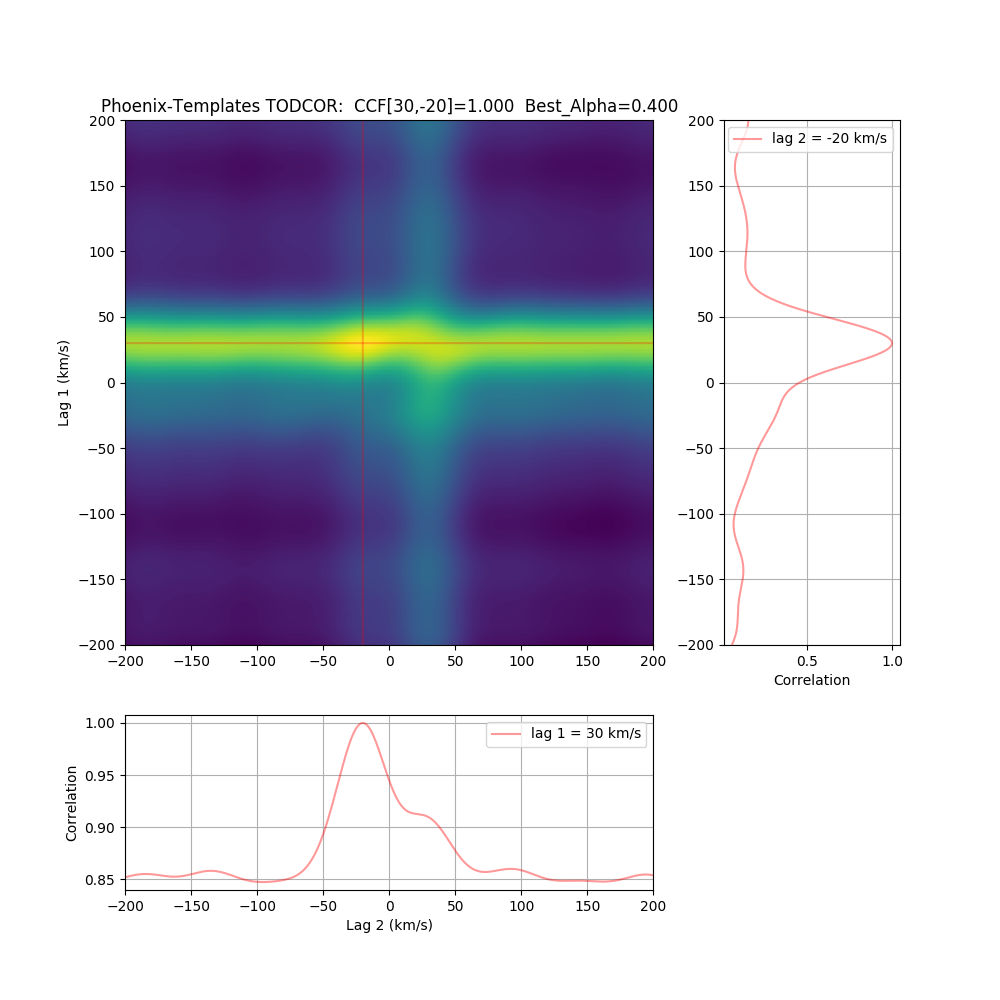
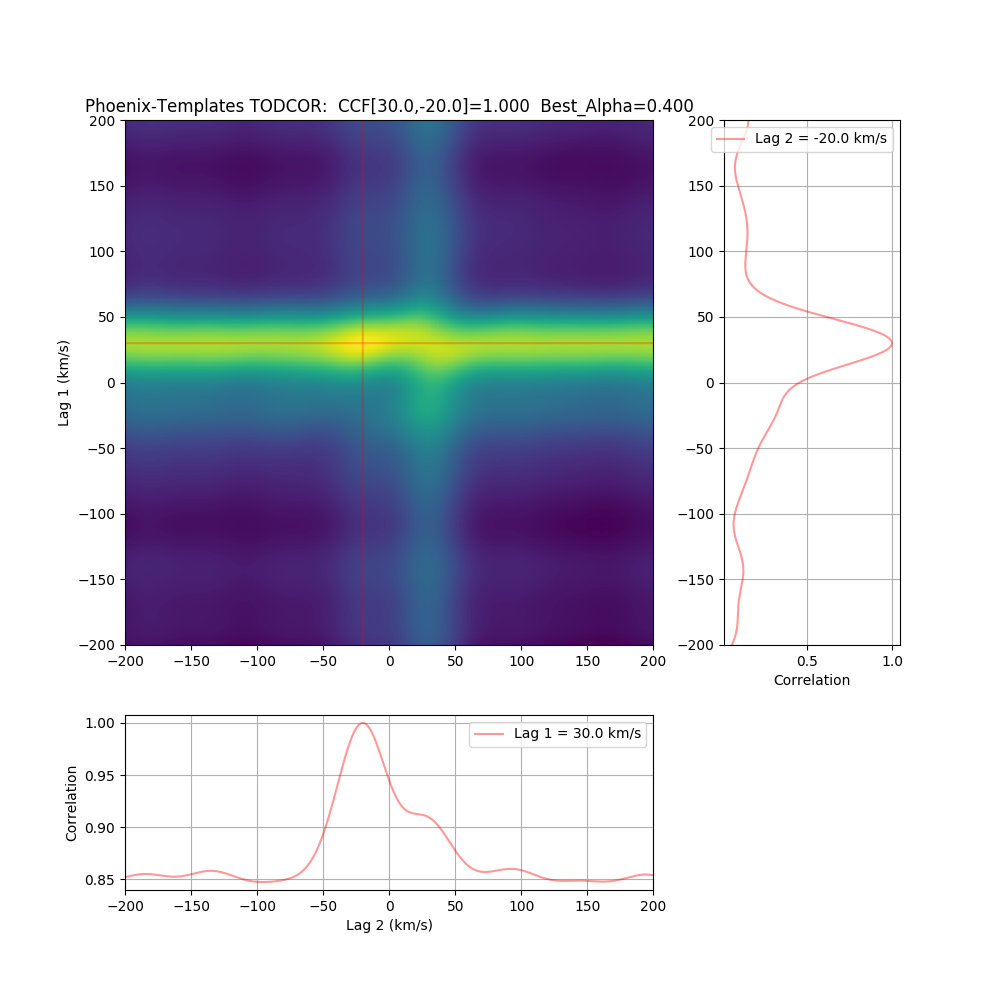
example.py now supports templates of any resolution: The templates resolution, dRV, is now derived from the templates wavelength array. It is then used for building the simulated observed spectrum, and for the ploting.

diff --git a/example.py b/example.py
@@ -13,22 +13,48 @@ def exampleRandTemplate(alpha=0.6, rv=[3,-5]):
     t2 = np.random.rand(N)                                # Second template
     obs = np.roll(t1, rv[0]) + alpha * np.roll(t2, rv[1]) # Simulated observed spectrum
     m = 10                                                # CCF range from lag -m to +m
-    return obs, t1, t2, rv, alpha, m
+    dRV = 1.0
+    return obs, t1, t2, rv, alpha, m, dRV
 
-def examplePhoenixTemplate(alpha=0.6, rv=[30,-20]):
-    # Returns a simulated observed spectrum built by combining two shifted, Phoenix-based, templates
-    # Templates flux is normalized and wavelength is at even log steps of 1 km/s
+def examplePhoenixTemplate(alpha=0.6, rv=[30,-20], maxRV=200):
+    """
+    Returns a simulated observed spectrum built by combining two shifted, Phoenix-based, templates.
+    Templates flux is normalized and wavelength is at even log steps
+
+    Parameters:
+    alpha (float): The flux ratio of the two templates.
+    rv [float,float]: The RV shifts of the two templates (km/s)
+    maxRV (float): The maximum RV shift to be considered by TODCOR (km/s)
+
+    Returns:
+    obs (float np array): The simulated observed spectrum
+    t1 (float np array): The primary template
+    t1 (float np array): The secondary template
+    rv [float,float]: The RV shifts of the two templates (km/s)
+    alpha (float): The flux ratio of the two templates
+    m (int): The maximum lag to consider in each direction
+    dRV (float): The obs, t1 and t2 RV resolution (km/s)
+    """
+    C = 299792.458                                         # speed of light (km/s)
     #df1 = pd.read_csv('template_6000K_45_0_6198A-6402A.csv')
     df1 = pd.read_csv('template_6000K_45_0_6198A-6402A_10K.csv')
     wv1 = df1.values[:,0]; t1 = df1.values[:,1]            # First template
     #df2 = pd.read_csv('template_4500K_45_0_6198A-6402A.csv')
     df2 = pd.read_csv('template_4500K_45_0_6198A-6402A_10K.csv')
     wv2 = df2.values[:,0]; t2 = df2.values[:,1]            # Second template
+
     if not np.array_equal(wv1,wv2):
-        raise ValueError("The two templates must have the same wavelengths array.")    
-    obs = np.roll(t1, rv[0]) + alpha * np.roll(t2, rv[1])  # Simulated observed spectrum
-    m = 200                                                # CCF range from lag -m to +m
-    return obs, t1, t2, rv, alpha, m
+        raise ValueError("The two templates must have the same wavelengths array.")
+    diffVec = np.diff(np.log(wv1))
+    meanLogDiff = diffVec.mean()                           # Mean resolution of log(wv1)
+    if diffVec.std()/meanLogDiff > 0.01:
+        warnings.warn("The templates wavelength array should be of even log steps, but they are probably not - Please Check")
+    dRV = (np.exp(meanLogDiff)-1)*C                        # The templates RV resolution (km/s)
+    m = round(maxRV/dRV)                                   # CCF range from lag -m to +m
+
+    obs = np.roll(t1, round(rv[0]/dRV)) + alpha * np.roll(t2, round(rv[1]/dRV))  # Simulated observed spectrum
+    return obs, t1, t2, rv, alpha, m, dRV
+
 
 
 # TODCOR Example Code:
@@ -37,11 +63,12 @@ def examplePhoenixTemplate(alpha=0.6, rv=[30,-20]):
 templateType = 'Phoenix'
 #templateType = 'Random'
 if templateType == 'Phoenix':
-    obs, t1, t2, rv, alpha, m = examplePhoenixTemplate(alpha=0.4)   # Phoenix templates based simulated observed spectrum
+    obs, t1, t2, rv, alpha, m, dRV = examplePhoenixTemplate(alpha=0.4)   # Phoenix templates based simulated observed spectrum
 elif templateType == 'Random':
-    obs, t1, t2, rv, alpha, m = exampleRandTemplate(alpha=0.4)     # Short random templates based simulated observed spectrum
+    obs, t1, t2, rv, alpha, m, dRV = exampleRandTemplate(alpha=0.4)     # Short random templates based simulated observed spectrum
 else:
     raise ValueError('Unknown templateType: %s' % templateType)
+maxRV = m * dRV        # Maximum RV shift to be considered by TODCOR (km/s)
 
 # For best results on a short spectrum, templates should be wider than the spectrum by m elements on each side
 #shortSpectrum = False
@@ -58,7 +85,7 @@ ccf12 = genNormCorr(t1, t2, m)            # CCF of t1  vs. t2
 
 # Plot the templates 1d CCFs
 plt.figure(1)
-ccfX = np.arange(-m, m + 1)
+ccfX = np.arange(-m, m + 1) * dRV
 plt.plot(ccfX, ccf1, ccfX, ccf2, ccfX, ccf12); plt.grid(True)
 plt.title('%s-Templates 1d CCFs' % templateType)
 plt.legend(['Observed vs. Temp1', 'Observed vs. Temp2', 'Temp1 vs. Temp2'])
@@ -75,28 +102,29 @@ bestAlpha = alphaM[maxIdx1]                                 # best alpha at max 
 # Recalculate TODCOR using the best alpha
 corrM, _ = todcor(obs, t1, t2, m, bestAlpha)                # TODCOR with input alpha
 maxIdx = np.unravel_index(np.argmax(corrM), corrM.shape)    # max TODCOR indices
+bestRV = (np.array(maxIdx)-m) * dRV                         # The best RV shifts of the two templates
 maxVal = corrM[maxIdx]                                      # max TODCOR value
 
 # Plot the best-alpha TODCOR matrix as an image + cuts at maximum correlation
 #plt.figure(2)
 fig, ((ax, ax1),(ax2, axn)) = plt.subplots(2, 2, figsize=(10, 10), gridspec_kw={'height_ratios': [3, 1], 'width_ratios': [3, 1]}, num=2)
-im1 = ax.imshow(corrM, extent=[-m-0.5, m+0.5, -m-0.5, m+0.5], origin='lower', aspect='auto', cmap='viridis')
-line = np.arange(-m-0.5,m+0.55,0.1); point = line * 0
-ax.plot(line,point+maxIdx[0]-m,'-r', alpha=0.25)
-ax.plot(point+maxIdx[1]-m, line,'-r', alpha=0.25); #ax.grid(True)
-ax.set_xlim([-m,m]); ax.set_ylim([-m,m])
+im1 = ax.imshow(corrM, extent=np.array([-m-0.5, m+0.5, -m-0.5, m+0.5])*dRV, origin='lower', aspect='auto', cmap='viridis')
+line = np.arange(-m-0.5,m+0.55,0.1)*dRV; point = line * 0
+ax.plot(line,point+bestRV[0],'-r', alpha=0.25)
+ax.plot(point+bestRV[1], line,'-r', alpha=0.25); #ax.grid(True)
+ax.set_xlim([-maxRV,maxRV]); ax.set_ylim([-maxRV,maxRV])
 #plt.colorbar(im1, label='Correlation')
 ax2.plot(ccfX, corrM[maxIdx[0],:],'r',alpha=0.4); ax2.grid(True)
-ax2.set_xlim([-m,m])
+ax2.set_xlim([-maxRV,maxRV])
 ax2.set_ylabel('Correlation')
-ax2.legend(['lag 1 = %1.0f km/s'%(maxIdx[0]-m)])
+ax2.legend(['Lag 1 = %1.1f km/s'%bestRV[0]])
 ax2.set_xlabel('Lag 2 (km/s)')
 ax1.plot(corrM[:,maxIdx[1]], ccfX,'r',alpha=0.4); ax1.grid(True)
-ax1.set_ylim([-m,m])
+ax1.set_ylim([-maxRV,maxRV])
 ax1.set_xlabel('Correlation')
-ax1.legend(['lag 2 = %1.0f km/s'%(maxIdx[1]-m)])
+ax1.legend(['Lag 2 = %1.1f km/s'%bestRV[1]])
 ax.set_ylabel('Lag 1 (km/s)')
-ax.set_title('%s-Templates TODCOR:  CCF[%d,%d]=%1.3f  Best_Alpha=%1.3f'%(templateType, maxIdx[0]-m, maxIdx[1]-m, maxVal, bestAlpha))
+ax.set_title('%s-Templates TODCOR:  CCF[%1.1f,%1.1f]=%1.3f  Best_Alpha=%1.3f'%(templateType, bestRV[0], bestRV[1], maxVal, bestAlpha))
 axn.axis('off')
 
 plt.show()
